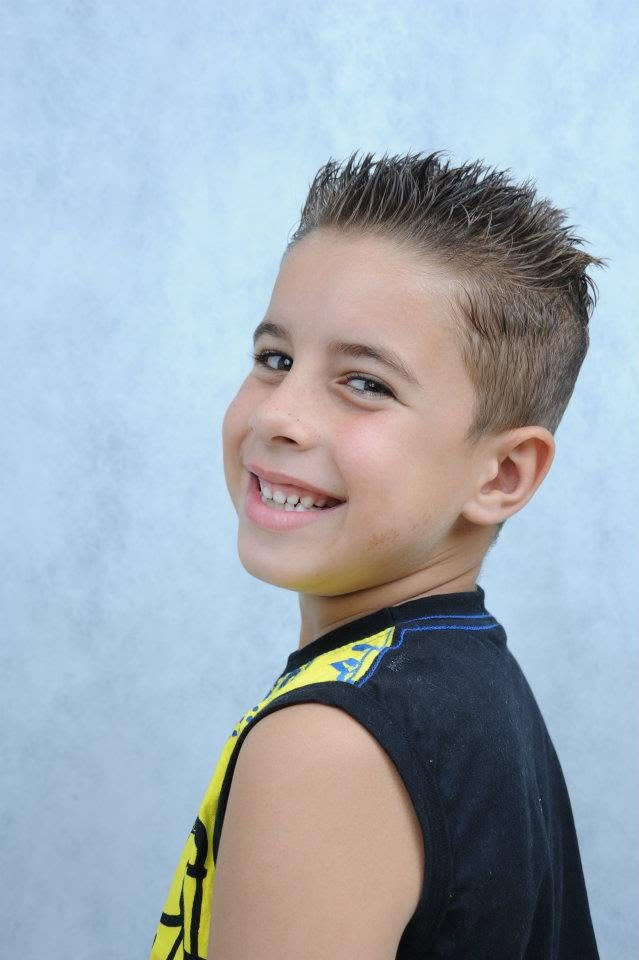
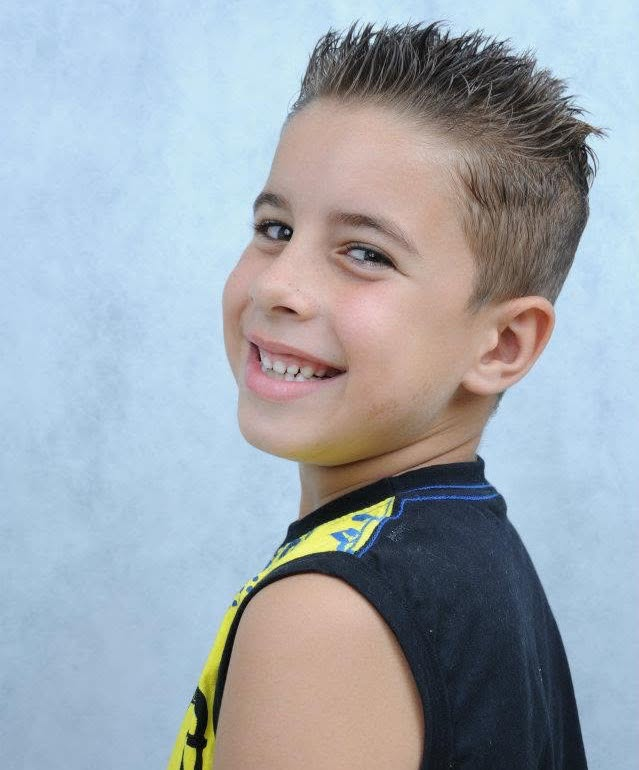
ajustes fotos nas paginas

diff --git a/site-institucional/public/ps5.html b/site-institucional/public/ps5.html
@@ -30,7 +30,7 @@
         <a class="botao-principal" href="#jogos">Explorar meus jogos ↓</a>
       </div>
       <div class="envoltorio-console">
-        <img class="imagem-console" src="./assets/Black_and_white_Playstation_5_base_edition_with_controller.png.webp" alt="Ilustração estilizada de PlayStation 5">
+        <img class="imagem-console" src="./assets/luannps5.jpeg" alt="Ilustração estilizada de PlayStation 5">
       </div>
     </section>
     <section class="secao-jogos" id="jogos" aria-labelledby="titulo-jogos">
